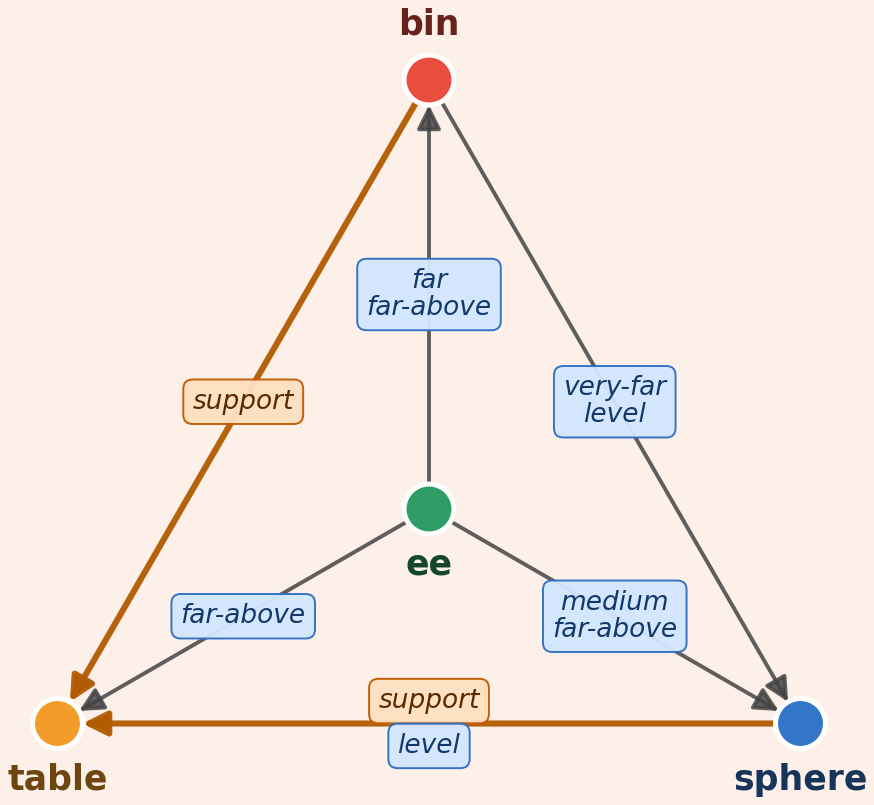
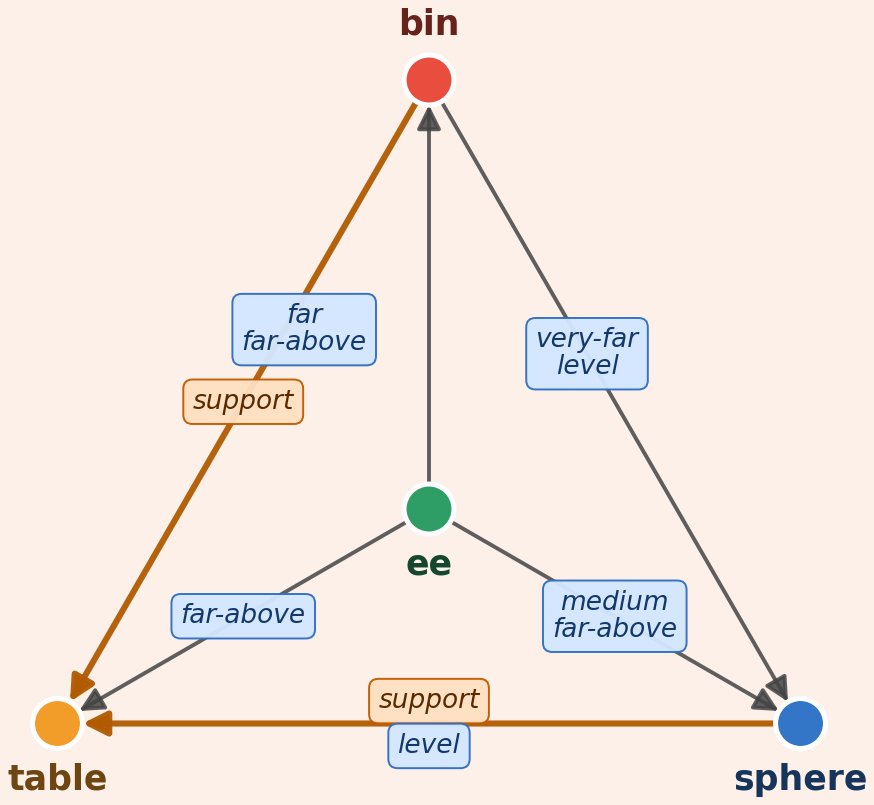
m

Changed region(s): [[0.2471, 0.3106, 0.7723, 0.559]]

diff --git a/scenegraph/viz/graph_draw.py b/scenegraph/viz/graph_draw.py
@@ -238,6 +238,21 @@ def _paper_edge_fractions(
     return np.linspace(0.18, 0.58, int(count), dtype=float)
 
 
+def _paper_pair_offset(
+    graph: Graph, pair: Tuple[str, str],
+) -> Optional[np.ndarray]:
+    """Give crowded PlaceSphere pairs a stable label lane.
+
+    The EE-bin edge is vertical and sits immediately beside the bin-sphere
+    diagonal.  Keeping its chips just to the left of the vertical edge makes
+    it clear which line they describe without hiding any valid relations.
+    """
+    ee_bin = tuple(sorted(("ee", "actor:bin")))
+    if graph.env_id == "PlaceSphere-v1" and tuple(sorted(pair)) == ee_bin:
+        return np.asarray([-1.60, -0.45], dtype=float)
+    return None
+
+
 def _paper_display_edges(graph: Graph) -> List[Edge]:
     """Return a paper-only, presentation-focused view of ``graph.edges``.
 
@@ -267,25 +282,6 @@ def _paper_display_edges(graph: Graph) -> List[Edge]:
                     bin_id, table_id, "support", "dst-holds",
                     attributes={"support_role": "supporter"},
                 ))
-        # The paper figure explains the two schedule pairs. EE-bin and spatial
-        # relations to the structural table are valid context for the model,
-        # but their chips collide with the task relations in a narrow paper
-        # panel. Keep the exact JSON untouched and simplify only this rendered
-        # view: EE-sphere, sphere-bin, plus positive physical table supports.
-        schedule_pairs = {
-            tuple(sorted(("ee", "actor:sphere"))),
-            tuple(sorted(("actor:sphere", "actor:bin"))),
-        }
-        table_id = "actor:table-workspace"
-        edges = [
-            edge for edge in edges
-            if _unordered_pair(edge) in schedule_pairs
-            or (
-                table_id in (edge.src, edge.dst)
-                and edge.relation in _PRIMARY_PHYSICAL_RELATIONS
-                and str(edge.label) in _POSITIVE_PHYSICAL_LABELS
-            )
-        ]
     # Once a stronger physical predicate holds, positive contact is implied
     # and only repeats the same event.  Apply the same visual hierarchy to an
     # established affordance, where contact-compatibility would otherwise add
@@ -579,8 +575,14 @@ def render_graph(
                 ]
                 y_offsets = [float(anchor[1] - mid[1]) for anchor in anchors]
             else:
+                fixed_offset = _paper_pair_offset(graph, pair)
                 anchors = [
                     np.array([float(mid[0]), float(mid[1] + offset)])
+                    + (
+                        fixed_offset
+                        if fixed_offset is not None
+                        else np.zeros(2, dtype=float)
+                    )
                     for offset in y_offsets
                 ]
                 # Move collisions across this edge, not vertically down the
@@ -590,7 +592,10 @@ def render_graph(
                 normal = np.array([-u[1], u[0]], dtype=float)
                 push_direction = None
                 nudge = max(0.35, chip["nudge_step"] * 0.5)
-                for _ in range(int(chip["max_iters"])):
+                for _ in range(
+                    0 if fixed_offset is not None
+                    else int(chip["max_iters"])
+                ):
                     hit = next((
                         (anchor, width, height, box)
                         for anchor, width, height in zip(

diff --git a/tests/test_graph_viz.py b/tests/test_graph_viz.py
@@ -10,6 +10,7 @@ from scenegraph.viz.graph_draw import (
     _node_display_label,
     _paper_display_edges,
     _paper_edge_fractions,
+    _paper_pair_offset,
     _radial_layout,
     render_graph,
     render_graph_array,
@@ -145,7 +146,7 @@ class GraphDisplayFactsTest(unittest.TestCase):
         np.testing.assert_allclose(fractions, [0.18, 0.38, 0.58])
         self.assertTrue(np.all((fractions > 0.0) & (fractions < 1.0)))
 
-    def test_place_sphere_paper_view_keeps_only_schedule_and_support_pairs(self):
+    def test_place_sphere_paper_view_preserves_context_relations(self):
         graph = Graph(
             frame=94,
             env_id="PlaceSphere-v1",
@@ -168,11 +169,18 @@ class GraphDisplayFactsTest(unittest.TestCase):
         shown = _paper_display_edges(graph)
         facts = {(edge.src, edge.dst, edge.relation) for edge in shown}
 
-        self.assertNotIn(("ee", "actor:bin", "planar-distance"), facts)
-        self.assertNotIn(("ee", "actor:table-workspace", "height-offset"), facts)
+        self.assertIn(("ee", "actor:bin", "planar-distance"), facts)
+        self.assertIn(("ee", "actor:table-workspace", "height-offset"), facts)
         self.assertIn(("ee", "actor:sphere", "planar-distance"), facts)
         self.assertIn(("actor:bin", "actor:sphere", "planar-distance"), facts)
         self.assertIn(("actor:sphere", "actor:table-workspace", "support"), facts)
+
+    def test_place_sphere_ee_bin_labels_use_left_lane(self):
+        graph = Graph(frame=94, env_id="PlaceSphere-v1", camera="base")
+
+        offset = _paper_pair_offset(graph, ("actor:bin", "ee"))
+
+        np.testing.assert_allclose(offset, [-1.60, -0.45])
 
     def test_paper_graph_is_cropped_and_has_no_title_strip(self):
         from PIL import Image

diff --git a/output/png/PlaceSphere_milestone_figure_source.py b/output/png/PlaceSphere_milestone_figure_source.py
@@ -411,16 +411,22 @@ def build() -> None:
 
     # Preserve every node label. Any aspect-ratio padding uses the graph's own
     # peach background, so there are no white head/foot bands and no crop.
+    # The inner margin protects labels that sit at the graph image boundary.
     graph_top, graph_h = 486, 390
+    graph_inset = 10
     for index, step in enumerate(MILESTONES):
         x = content_x0 + index * (col_w + GAP)
         with Image.open(GRAPH_DIR / f"graph_{step:04d}.png") as source:
             graph = fit_contain(
                 source.convert("RGBA"),
-                (col_w, graph_h),
+                (col_w - 2 * graph_inset, graph_h - 2 * graph_inset),
                 background=(253, 240, 233, 255),
             )
-        canvas.alpha_composite(graph, (x, graph_top))
+        graph_panel = Image.new(
+            "RGBA", (col_w, graph_h), (253, 240, 233, 255)
+        )
+        graph_panel.alpha_composite(graph, (graph_inset, graph_inset))
+        canvas.alpha_composite(graph_panel, (x, graph_top))
         draw.rectangle((x, graph_top, x + col_w, graph_top + graph_h), outline=GRID, width=2)
 
     # Complete subject-relation-object phrases; no relation-category prefix.
